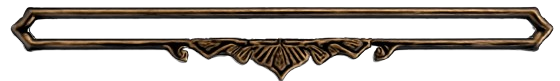
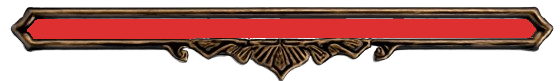
feat: add second boss

Changed region(s): [[0.0304, 0.2222, 0.9714, 0.4938]]

diff --git a/Game/core/src/main/java/com/myteam/rpgsurvivor/model/Enemy.java b/Game/core/src/main/java/com/myteam/rpgsurvivor/model/Enemy.java
@@ -3,6 +3,7 @@ package com.myteam.rpgsurvivor.model;
 import com.badlogic.gdx.Gdx;
 import com.badlogic.gdx.graphics.Color;
 import com.badlogic.gdx.graphics.Texture;
+import com.badlogic.gdx.graphics.g2d.BitmapFont;
 import com.badlogic.gdx.graphics.g2d.SpriteBatch;
 import com.badlogic.gdx.graphics.g2d.TextureRegion;
 import com.badlogic.gdx.graphics.glutils.ShapeRenderer;
@@ -10,11 +11,13 @@ import com.badlogic.gdx.math.Circle;
 import com.badlogic.gdx.math.Rectangle;
 import com.badlogic.gdx.math.Vector2;
 
+import com.badlogic.gdx.scenes.scene2d.ui.Label;
 import com.myteam.rpgsurvivor.animation.AnimationForEnemy;
 import com.myteam.rpgsurvivor.animation.AnimationManager;
 import com.myteam.rpgsurvivor.controller.movement.EnemyMovement;
 import com.myteam.rpgsurvivor.debug.DebugRenderer;
 import com.myteam.rpgsurvivor.model.enum_type.BossType;
+import com.myteam.rpgsurvivor.model.enum_type.HeroType;
 import com.myteam.rpgsurvivor.model.enum_type.MonsterType;
 import com.myteam.rpgsurvivor.model.enum_type.StateType;
 
@@ -48,18 +51,22 @@ public abstract class Enemy extends Entity {
     private float maxKnockbackSpeed = 300f;
 
     private boolean bossTurn;
+
     private Texture frameHP;
     private Texture bloodTexture;
 
+    private Texture bossName;
+
     private TextureRegion fullBloodFrame;
+    private TextureRegion[] bloodFrames;
 
     private static final int BLOOD_FRAME_COLS = 6;
     private static final int BLOOD_FRAME_ROWS = 1;
 
 
-    private float bloodBarWidth = 200;
-    private float bloodBarHeight = 40;
-    private float padding = 10;
+    private float bloodBarWidth = 840;
+    private float bloodBarHeight = 122;
+    private float padding = 100;
     private float bloodBarInnerPaddingX = 10;
     private float bloodBarInnerPaddingY = 10;
 
@@ -67,6 +74,7 @@ public abstract class Enemy extends Entity {
     private float innerBloodHeight;
     private float bloodBarX;
     private float bloodBarY;
+
 
     public Enemy(float x, float y, MonsterType enemyType, Player player, AnimationForEnemy animationFactory) {
         this.entityX = x;
@@ -158,11 +166,11 @@ public abstract class Enemy extends Entity {
 
         // Khởi tạo textures cho thanh máu của boss
         frameHP = new Texture(Gdx.files.internal("Enemy/Asset For Boss/FrameHP.png"));
-        bloodTexture = new Texture(Gdx.files.internal("Menu/IngameIcon/Blood.png"));
+        bloodTexture = new Texture(Gdx.files.internal("Enemy/Asset For Boss/BloodVer2.png"));
 
         // Khởi tạo kích thước thanh máu
-        innerBloodWidth = bloodBarWidth - (2 * bloodBarInnerPaddingX) + 15;
-        innerBloodHeight = bloodBarHeight - (2 * bloodBarInnerPaddingY);
+        innerBloodWidth = bloodBarWidth - (2 * bloodBarInnerPaddingX) + 30;
+        innerBloodHeight = bloodBarHeight - (2 * bloodBarInnerPaddingY) ;
         bloodBarX = padding + padding;
         bloodBarY = bloodBarHeight / 2;
 
@@ -171,15 +179,24 @@ public abstract class Enemy extends Entity {
 
         this.attackbox = new Rectangle(hitbox);
         attackbox.setSize(hitbox.getWidth() + attackRange , hitbox.getHeight() + attackRange);
+
+//        if(BossType.SLIME_BOSS.name().equals(bossType.name()))
+//        {
+            bossName = new Texture(Gdx.files.internal("Enemy/Asset For Boss/SlimebossName.png"));
+        //}
     }
 
     private void setupBloodFrames() {
-        fullBloodFrame = new TextureRegion();
+        bloodFrames = new TextureRegion[BLOOD_FRAME_COLS];
         float frameWidth = bloodTexture.getWidth() / BLOOD_FRAME_COLS;
         float frameHeight = bloodTexture.getHeight() / BLOOD_FRAME_ROWS;
 
-        fullBloodFrame = new TextureRegion(bloodTexture, 0 * (int)frameWidth, 0, (int)frameWidth, (int)frameHeight);
+        for (int i = 0; i < BLOOD_FRAME_COLS; i++) {
+            bloodFrames[i] = new TextureRegion(bloodTexture, i * (int)frameWidth, 0, (int)frameWidth, (int)frameHeight);
+        }
     }
+
+
 
     private void updateHealth(float health) {
         currentHealth = (int) Math.max(0, Math.min(health, getMaxHealth()));
@@ -300,18 +317,32 @@ public abstract class Enemy extends Entity {
 
         // Vẽ thanh máu nếu là boss
         if (bossTurn) {
-            // Vẽ khung thanh máu
-            batch.draw(frameHP, bloodBarX, bloodBarY, bloodBarWidth, bloodBarHeight);
-
-            // Tính toán tỷ lệ máu hiện tại và vẽ thanh máu
             float healthPercent = currentHealth / (float) getMaxHealth();
             float currentBloodWidth = innerBloodWidth * healthPercent;
+            // Vẽ khung thanh máu
+            int frameIndex;
+            if (healthPercent > 0.85f) {
+                frameIndex = 0;
+            } else if (healthPercent > 0.70f) {
+                frameIndex = 1;
+            } else if (healthPercent > 0.55f) {
+                frameIndex = 2;
+            } else if (healthPercent > 0.40f) {
+                frameIndex = 3;
+            } else if (healthPercent > 0.25f) {
+                frameIndex = 4;
+            } else {
+                frameIndex = 5;
+            }
 
-            batch.draw(fullBloodFrame,
-                bloodBarX + bloodBarInnerPaddingX,
-                bloodBarY + bloodBarInnerPaddingY,
-                currentBloodWidth,
+            // Vẽ frame máu tương ứng
+            batch.draw(bloodFrames[frameIndex],
+                bloodBarX,
+                bloodBarY ,
+                innerBloodWidth,
                 innerBloodHeight);
+
+            batch.draw(bossName,bloodBarX, bloodBarY + 100);
         }
 
         // Debug drawing
@@ -380,4 +411,6 @@ public abstract class Enemy extends Entity {
         }
         velocity.add(force);
     }
+
+
 }

diff --git a/Game/core/src/main/java/com/myteam/rpgsurvivor/screens/UpgradeScreen.java b/Game/core/src/main/java/com/myteam/rpgsurvivor/screens/UpgradeScreen.java
@@ -19,6 +19,7 @@ import com.badlogic.gdx.utils.viewport.FitViewport;
 import com.badlogic.gdx.utils.viewport.Viewport;
 import com.myteam.rpgsurvivor.Main;
 import com.myteam.rpgsurvivor.model.Player;
+import com.myteam.rpgsurvivor.model.enum_type.HeroType;
 
 public class UpgradeScreen implements Screen {
     private Main game;
@@ -39,6 +40,8 @@ public class UpgradeScreen implements Screen {
     private int skillMod;
 
     private Texture background;
+
+    private Texture avatarHero;
 
     // Button textures
     private Texture increaseHealthUnactive;
@@ -160,6 +163,25 @@ public class UpgradeScreen implements Screen {
 
         playUnActive = new Texture(Gdx.files.internal("Menu/Description hero/PlayBtnUnActive (1).png"));
         playActive = new Texture(Gdx.files.internal("Menu/Description hero/PlayBtnActive (1).png"));
+
+        HeroType hero = player.getHeroType();
+        if(HeroType.KNIGHT.name().equals(hero.name()))
+        {
+            avatarHero = new Texture(Gdx.files.internal("Menu/IngameIcon/knightAva.png"));
+        }
+        else if(HeroType.SAMURAI.name().equals(hero.name()))
+        {
+            avatarHero = new Texture(Gdx.files.internal("Menu/IngameIcon/SamuraiAva.png"));
+
+        }
+        else if(HeroType.ARCHER.name().equals(hero.name()))
+        {
+            avatarHero = new Texture(Gdx.files.internal("Menu/IngameIcon/archerAva.png"));
+        }
+        else if(HeroType.WIZARD.name().equals(hero.name()))
+        {
+            avatarHero = new Texture(Gdx.files.internal("Menu/IngameIcon/wizardAva.png"));
+        }
     }
 
     public ImageButton createButton(Texture unactiveBtn, Texture activeBtn) {
@@ -172,6 +194,16 @@ public class UpgradeScreen implements Screen {
     public void createMenu() {
         float paddingX = 100;
         float paddingY = 200;
+
+        Image avatar = new Image(avatarHero);
+        avatar.setScale(2);
+        if(HeroType.KNIGHT.name().equals(player.getHeroType().name()))
+        {
+            avatar.setPosition(Gdx.graphics.getWidth() / 2 + 250, Gdx.graphics.getHeight() / 2 + 70);
+        }
+        else avatar.setPosition(Gdx.graphics.getWidth() / 2 + 270, Gdx.graphics.getHeight() / 2 + 70);
+
+        stage.addActor(avatar);
 
         playBtn = createButton(playUnActive, playActive);
         playBtn.setPosition(Gdx.graphics.getWidth() / 2 + 460, Gdx.graphics.getHeight() / 2 - 240);
@@ -242,7 +274,7 @@ public class UpgradeScreen implements Screen {
         stage.addActor(skillDeBtn);
         stage.addActor(playBtn);
 
-        stage.setDebugAll(true);
+        //stage.setDebugAll(true);
 
         stage.addActor(availablePointsLabel);
         stage.addActor(healthLabel);

diff --git a/Game/core/src/main/java/com/myteam/rpgsurvivor/controller/EnemySpawnController.java b/Game/core/src/main/java/com/myteam/rpgsurvivor/controller/EnemySpawnController.java
@@ -10,6 +10,7 @@ import com.myteam.rpgsurvivor.model.Enemy;
 import com.myteam.rpgsurvivor.model.Player;
 import com.myteam.rpgsurvivor.model.enum_type.BossType;
 import com.myteam.rpgsurvivor.model.enum_type.MonsterType;
+import com.myteam.rpgsurvivor.model.impl.Boss.SkeletonKing;
 import com.myteam.rpgsurvivor.model.impl.Boss.SlimeBoss;
 import com.myteam.rpgsurvivor.model.impl.Creep.*;
 
@@ -57,7 +58,7 @@ public class EnemySpawnController {
 
         this.prepareToNextStage = false;
         this.isPaused = false;
-        this.isBossWave = (currentWave % 5 == 0);
+        this.isBossWave = (currentWave % 5 == 1);
         this.bossSpawned = false;
     }
 
@@ -122,7 +123,7 @@ public class EnemySpawnController {
 
     public Enemy createBoss(float x, float y) {
         BossType[] types = BossType.values();
-        BossType randomType = BossType.SLIME_BOSS;
+        BossType randomType = BossType.SKELETON_KING;
 
         Enemy boss = createBossByType(randomType, x, y);
         return boss;
@@ -132,6 +133,8 @@ public class EnemySpawnController {
         switch (type) {
             case SLIME_BOSS:
                 return new SlimeBoss(x,y,player,enemyAnimation);
+            case SKELETON_KING:
+                return new SkeletonKing(x,y,player,enemyAnimation);
             default:
                 return new SlimeBoss(x, y, player, enemyAnimation);
         }
@@ -208,10 +211,14 @@ public class EnemySpawnController {
         isPaused = false;
         currentWave++;
         totalDeath = 0;
-        isBossWave = currentWave % 5 == 0;
+        isBossWave = currentWave % 5 == 1;
         bossSpawned = false;
         activeEnemy.clear();
         activeBoss.clear();
+    }
+
+    public boolean isBossWave() {
+        return isBossWave;
     }
 
     public ArrayList<Enemy> getActiveEnemies() {

diff --git a/Game/core/src/main/java/com/myteam/rpgsurvivor/animation/AnimationForEnemy.java b/Game/core/src/main/java/com/myteam/rpgsurvivor/animation/AnimationForEnemy.java
@@ -42,6 +42,9 @@ public class AnimationForEnemy {
             case SLIME_BOSS:
                 setUpSlimeBossAnimation(animationManager);
                 break;
+            case SKELETON_KING:
+                setUpSkeletonKingAnimation(animationManager);
+                break;
 
         }
         return animationManager;
@@ -211,6 +214,39 @@ public class AnimationForEnemy {
             StateType.STATE_DEATH.stateType,
             "Enemy/Slime Boss/boss_demon_slime_FREE_v1.0/single sprites/demon_death_1.png",
             22,1,DEFAULT_FRAME_DURATION, false
+        );
+    }
+
+    public void setUpSkeletonKingAnimation(AnimationManager animationManager)
+    {
+        animationManager.addAnimation(
+            StateType.STATE_IDLE.stateType,
+            "Enemy/King Skeleton/Bringer-Of-Death/Sprite/Idle.png",
+            7,1,DEFAULT_FRAME_DURATION,true
+        );
+
+        animationManager.addAnimation(
+            StateType.STATE_RUN.stateType,
+            "Enemy/King Skeleton/Bringer-Of-Death/Sprite/Walk.png",
+            8,1,DEFAULT_FRAME_DURATION,true
+        );
+
+        animationManager.addAnimation(
+            StateType.STATE_ATTACK.stateType,
+            "Enemy/King Skeleton/Bringer-Of-Death/Sprite/Attack.png",
+            10,1,DEFAULT_FRAME_DURATION,false
+        );
+
+        animationManager.addAnimation(
+            StateType.STATE_HURT.stateType,
+            "Enemy/King Skeleton/Bringer-Of-Death/Sprite/Hurt.png",
+            3,1,DEFAULT_FRAME_DURATION,false
+        );
+
+        animationManager.addAnimation(
+            StateType.STATE_DEATH.stateType,
+            "Enemy/King Skeleton/Bringer-Of-Death/Sprite/Death.png",
+            10,1,DEFAULT_FRAME_DURATION, false
         );
     }
 

diff --git a/Game/core/src/main/java/com/myteam/rpgsurvivor/model/impl/Boss/SkeletonKing.java b/Game/core/src/main/java/com/myteam/rpgsurvivor/model/impl/Boss/SkeletonKing.java
@@ -1,0 +1,27 @@
+package com.myteam.rpgsurvivor.model.impl.Boss;
+
+import com.badlogic.gdx.graphics.g2d.SpriteBatch;
+import com.myteam.rpgsurvivor.animation.AnimationForEnemy;
+import com.myteam.rpgsurvivor.model.Enemy;
+import com.myteam.rpgsurvivor.model.Player;
+import com.myteam.rpgsurvivor.model.enum_type.BossType;
+
+
+public class SkeletonKing extends Enemy {
+    public SkeletonKing(float x, float y, Player player, AnimationForEnemy animationFactory) {
+        super(x, y, BossType.SKELETON_KING, player, animationFactory);
+    }
+
+
+    @Override
+    public void update(float deltaTime) {
+        super.update(deltaTime);
+    }
+
+    @Override
+    public void render(SpriteBatch batch, float deltaTime) {
+        super.render(batch, deltaTime);
+    }
+
+
+}

diff --git a/Game/core/src/main/java/com/myteam/rpgsurvivor/screens/MapScreen.java b/Game/core/src/main/java/com/myteam/rpgsurvivor/screens/MapScreen.java
@@ -131,7 +131,7 @@ public class MapScreen implements Screen {
         if (!isPaused()) {
             if (enemySpawnController != null && !systemController.isWaitingForNextStage()) {
                 chosenHero.render(batch, Gdx.graphics.getDeltaTime());
-                boolean isBossWave = enemySpawnController.getCurrentWave() % 5 == 0;
+                boolean isBossWave = enemySpawnController.isBossWave();
                 System.out.println(isBossWave);
                 if (isBossWave) {
                     enemySpawnController.renderBoss(batch, Gdx.graphics.getDeltaTime());

diff --git a/Game/core/src/main/java/com/myteam/rpgsurvivor/model/enum_type/BossType.java b/Game/core/src/main/java/com/myteam/rpgsurvivor/model/enum_type/BossType.java
@@ -3,7 +3,8 @@ package com.myteam.rpgsurvivor.model.enum_type;
 import com.myteam.rpgsurvivor.model.EntityStat;
 
 public enum BossType {
-    SLIME_BOSS(new EntityStat(100,100,10,2.0f,20f), EnemyHitbox.SLIME_BOSS);
+    SLIME_BOSS(new EntityStat(100,100,50,2.0f,20f), EnemyHitbox.SLIME_BOSS),
+    SKELETON_KING(new EntityStat(100,100,50,2.0f,20f), EnemyHitbox.SKELETON_KING);
 
 
     public final EntityStat stat;

diff --git a/Game/core/src/main/java/com/myteam/rpgsurvivor/model/enum_type/EnemyHitbox.java b/Game/core/src/main/java/com/myteam/rpgsurvivor/model/enum_type/EnemyHitbox.java
@@ -8,7 +8,8 @@ public enum EnemyHitbox {
     SKELETON(22,32,5,3),
     ORC(17,16,10,10),
     VAMPIRE(17,16,10,10),
-    SLIME_BOSS(200,300,10,30);
+    SLIME_BOSS(200,300,10,30),
+    SKELETON_KING(500,300,10,30);
 
     public final float width;
     public final float height;

diff --git a/Game/core/src/main/java/com/myteam/rpgsurvivor/model/Player.java b/Game/core/src/main/java/com/myteam/rpgsurvivor/model/Player.java
@@ -225,4 +225,7 @@ public abstract class Player extends Entity{
         return atkSpeedPoints;
     }
 
+    public HeroType getHeroType() {
+        return heroType;
+    }
 }
